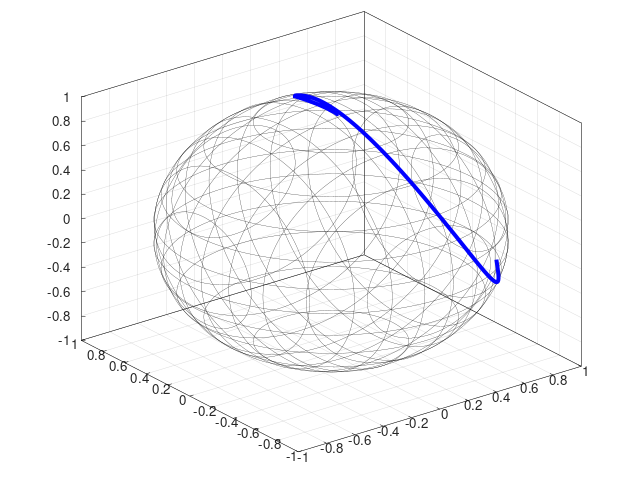
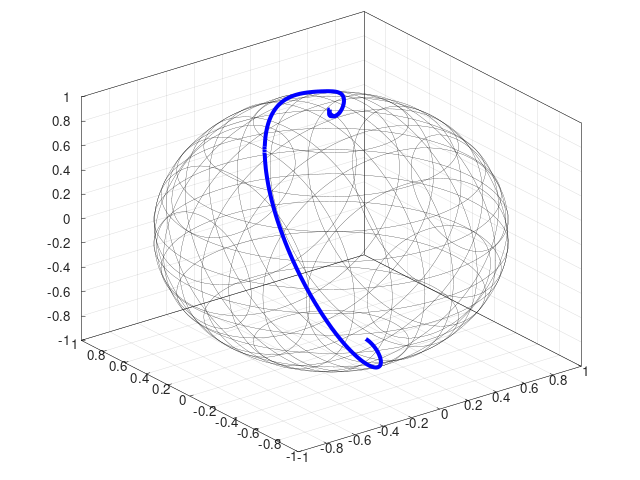
Update README.md

diff --git a/examples/odeint.cpp b/examples/odeint.cpp
@@ -43,7 +43,9 @@ int main(int argc, char const * argv[])
       deriv.template tail<3>() = -kp * (Xt.inverse() * state.part<0>()).log() - kd * state.part<1>();
     };
 
-  state_t state = state_t::Random();
+  state_t state;
+  state.part<0>() = smooth::SO3d(Eigen::Quaterniond(0, 0.8, 0, 0.1));
+  state.part<1>() = Eigen::Vector3d(0, 0, 2);
 
   std::vector<double> tvec;
   std::vector<state_t> gvec;

diff --git a/README.md b/README.md
@@ -1,51 +1,114 @@
-# smooth: Lie Theory C++20 Library and Book for Robotics
+# smooth: Lie Theory for Robotics (C++20 library and book)
 
-Do you need to do any of the following on a Lie group manifold?
+<img src="/media/ode.png" width="300">  <img src="/media/bspline.png" width="300">
 
- * [x] Algebraic manipulation and analytic derivatives on common Lie groups
- * [x] Numerical integration
+Do you want to do any of the following on a Lie group (or learn the theory)?
+
+ * [x] Algebraic manipulation and analytic tangent space derivatives (example code below)
+ * [x] Numerical integration (left figure shows the solution of an ODE on SO(3) x R(3), see `examples/odeint.cpp`)
  * [ ] Automatic differentiation
  * [ ] Optimization
- * [x] Interpolation with splines
- * [ ] Design controllers
- * [ ] Design estimators
+ * [x] Interpolation (right figure shows an interpolating B-spline of order 5 on SO(3), see `examples/bspline.cpp`)
+ * [ ] Design controllers and estimators
 
 Then this project may be of interest. **Currently in development**, the goal is to
 facilitate the use of Lie theory for robotics practitioners.
 
-The following common lie groups are available:
-  - SO(2)
-  - SO(3)
-  - SE(2)
-  - SE(3)
-  - A Bundle type to treat Lie group products `G = G_1 \times \ldots \times G_n` as a single Lie group
+The following common lie groups are implemented:
+ * SO(2) with complex number (S(1)) memory representation
+ * SO(3) with quaternion (S(3)) memory representation
+ * SE(2)
+ * SE(3)
+ * A Bundle type to treat Lie group products G = G\_1 x ... x G\_n as a single Lie group. The Bundle type also supports R(n) components as Eigen vectors
 
-The end goal is a book that describes theory and algorithms, and a library with implementations, with a strong mapping between the two so that the book serves as a manual of the library.
+These additional groups may or may not be implemented in the future:
+  - The "IMU group" SE\_2(3)
+  - Orthogonal matrices of any dimension: SO(n)
+  - Unitary matrices of any dimension: SU(n)
+  - A "dynamic collection" type that exposes the Lie group interface for an `std::ranges::range` container
 
-Utility headers for interfacing with adjacent software are also included
+The guiding principles for `smooth` are **brevity, reliability and compatability**. The end goal is a **book** that describes theory and algorithms, and a **library** with high-quality implementations, and with a strong mapping between the two so that the book serves as a manual of the library.
 
- * [x] Zero-copy memory mapping of [ROS/ROS2](https://www.ros.org/) message types
- * [x] Local parameterization for [Ceres](http://ceres-solver.org/) on-manifold optimization
- * [x] Numerical integration using [`boost::odeint`](https://www.boost.org/doc/libs/1_76_0/libs/numeric/odeint/doc/html/index.html)
+*Since the project is currently under development, expect poor structure in the book, and API changes in the library.*
 
-*Since the project is currently under development, expect poor structure and explanations in the book, and API changes in the library.*
 
-## Background
+## Group algebra examples
 
-Lie groups such as SO(3), SE(2) and SE(3) are very useful abstractions in robotics,
-but it is my impression that knowledge of Lie theory remains sparse in the robotics
-community. In particular there is a shortage of material that presents concepts in
-a way that accessible to most roboticists, and with a focus on appications rather than
-theorem proving.
+ ```
+ using G = smooth::SO3d;    // or SO2d, SE2d, SE3d, Bundle<double, SO3, E3> etc...
+ using Tangent = typename G::Tangent;
+
+ // construct a random group element and a random tangent element
+ G g = G::Random();
+ Tangent a = Tangent::Random();
+
+ // lie group exponential
+ auto exp_a = G::exp(a);
+
+ // lie group logarithm
+ auto g_log = g.log();
+
+ // lie algebra hat and vee maps
+ auto a_hat = G::hat(a);
+ auto a_hat_vee = G::vee(a_hat);
+
+ // group adjoint
+ auto Ad_g = g.Ad();
+
+ // lie algebra adjoint
+ auto ad_a = G::ad(a);
+
+ // derivatives of the exponential map
+ auto dr_exp_v = G::dr_exp(a);   // right derivative
+ auto dl_exp_v = G::dl_exp(a);   // left derivative
+ auto dr_expinv_v = G::dr_expinv(a);   // inverse of right derivative
+ auto dl_expinv_v = G::dl_expinv(a);   // inverse of left derivative
+
+ // group action
+ typename G::Vector v = G::Vector::Random();
+ auto v_trans = g * v;
+
+ // memory mapping like Eigen::Map
+ std::array<double, G::lie_size> mem;
+ smooth::Map<const G> m_g(mem.data());
+ ```
+
+
+## Algorithms
+
+Available:
+
+* [x] B-spline evaluation
+
+Planned:
+
+* [ ] B-spline fitting
+* [ ] Trust-region optimization
+* [ ] IMU pre-integration
+* [ ] Trajectory-tracking PD controller
+* [ ] Model-predictive control
+
+
+## Compatability
+
+Utility headers for interfacing with adjacent software are provided in `smooth/compat`
+
+* [x] Zero-copy memory mapping of [ROS/ROS2](https://www.ros.org/) message types
+* [x] Local parameterization for [Ceres](http://ceres-solver.org/) on-manifold optimization
+* [x] Numerical integration using [`boost::odeint`](https://www.boost.org/doc/libs/1_76_0/libs/numeric/odeint/doc/html/index.html)
+
+Interoperability is also planned with
+* [ ] Automatic differentiation (including in tangent space) using [autodiff](https://autodiff.github.io/)
+
 
 ## Related projects
 
-Two similar projects that have served as inspiration for `smooth` are [manif](https://github.com/artivis/manif/), which also has an accompagnying paper, and [Sophus](https://github.com/strasdat/Sophus/). `smooth` makes some different design decisions, jacobians are with respect to the tangent space as in `manif`, but the tangent types are Eigen vectors like in `Sophus`. This library also includes the Bundle type which greatly facilitates control and estimation tasks, and is written using modern C++20 which enables cleaner and shorter code as well as saner compiler error messages.
+Two similar projects that have served as inspiration for `smooth` are [`manif`](https://github.com/artivis/manif/), which also has an accompagnying paper, and [`Sophus`](https://github.com/strasdat/Sophus/). Certain design decisions are different in `smooth`: jacobians are with respect to the tangent space as in `manif`, but the tangent types are Eigen vectors like in `Sophus`. This library also includes the Bundle type which greatly facilitates control and estimation tasks, and is written in C++20 which enables cleaner code as well as saner compiler error messages.
 
 
-# Roadmap
+# Next steps
 
-## Notes todos
+## Book
 
 - [x] ceres derivatives
 - [ ] Levenberg-Marquardt trust-region optimization
@@ -55,38 +118,9 @@ Two similar projects that have served as inspiration for `smooth` are [manif](ht
   - [ ] Fitting of bsplines
   - [ ] Fitting of cubic splines: with and without given velocity
 
-## Library todos
+## Library
 
-- [x] cpp20 concepts and crtp
-- [x] set up lib structure
-- [x] support different storage types
-- compatability
-  - [x] boost odeint: read about algebras
-  - [ ] autodiff: tangent derivative of any manifold function
-  - [x] ceres: local parameterization of any group
-  - [x] map ros msgs as storage type
-- groups
-  - [x] so2
-  - [x] so3
-  - [x] se2
-  - [x] se3
-  - [x] bundle
-- algos:
-  - imu preintegration
-  - splines:
-    - [x] evaluate bsplines
-    - [ ] fit bsplines: need ceres or own LM optimizer...
-    - [ ] fit cubic splines with and without given velocity
-- debt:
- - [x] get rid of modifiable unordered storage and coeffs_ordered
-    - just don't expose map in if not supported by storage
- - [x] write own storages -- the eigen ones are ugly
- - [x] change SE2/3 constructors to take translation first
- - [x] Avoid duplication of boilerplate
-   - [x] trait to change n:th template arg to use lie_group_base for bundle
-   - [x] macro to define constructor boilerplate for each group
- - [x] revisit small angle approximations
- - [x] en: make bundle support vectors with usual semantics and leave it there
- - [x] bundle: typedef bundle with default storage
- - [x] get rid of large random header (use eigen seed)
- - [x] make tests pass float in release mode
+- [ ] Levenberg-Marquardt
+- [ ] Set up Gitlab CI
+- [ ] autodiff compatability header and tests
+- [ ] B-splines fitting using LM
